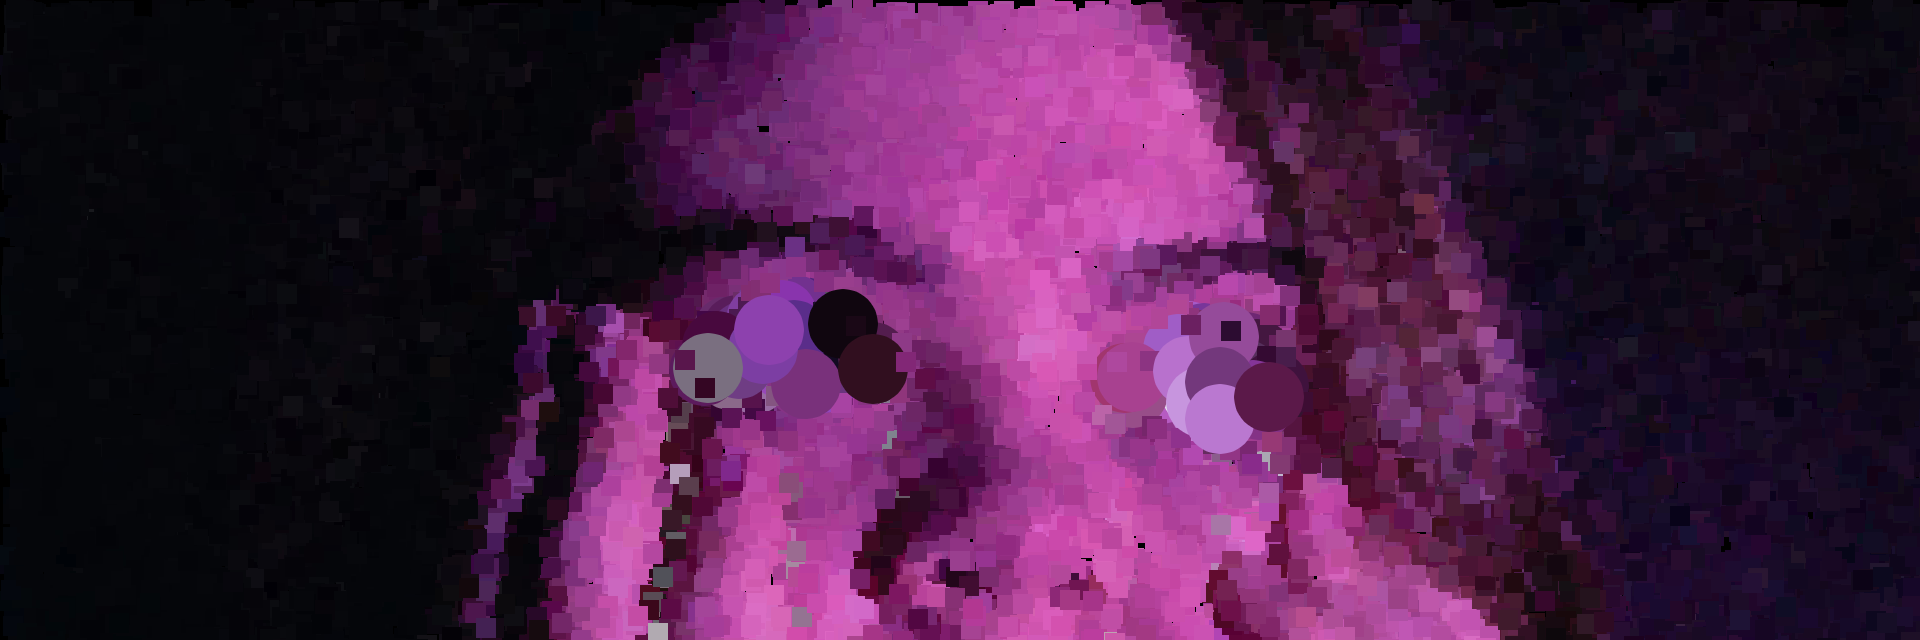
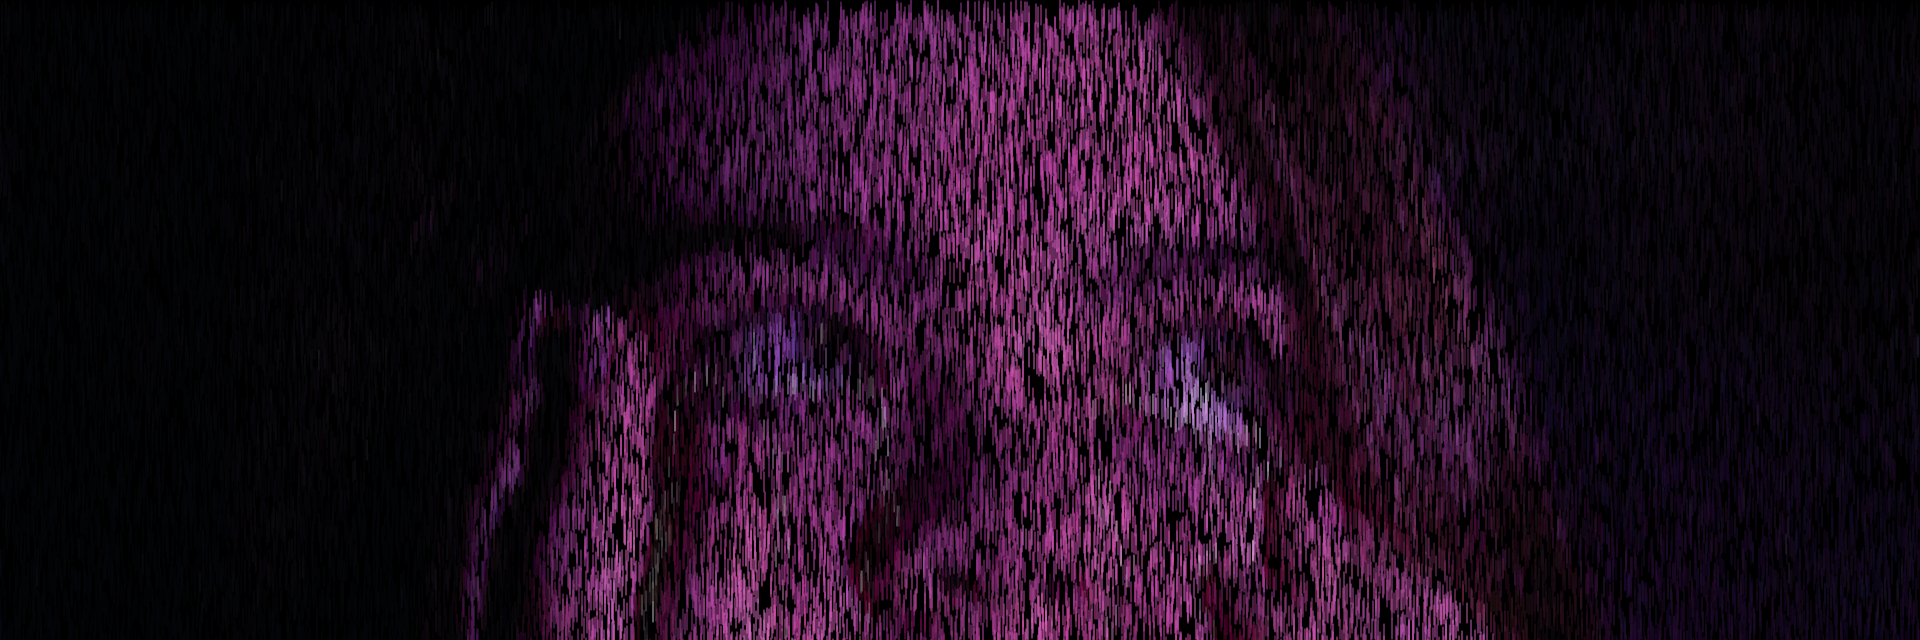
Rain effect

diff --git a/sketch.js b/sketch.js
@@ -17,30 +17,43 @@ function setup () {
   main_canvas.parent('canvasContainer');
 
   imageMode(CENTER);
-  noStroke();
+  // noStroke();
   background(0);
   sourceImg.loadPixels();
   maskImg.loadPixels();
 }
 
 function draw () {
-  for(let i=0;i<2000;i++) {
+
+  //2000 elements
+  for(let i=0;i<3000;i++) {
     let x = floor(random(sourceImg.width));
     let y = floor(random(sourceImg.height));
     let pix = sourceImg.get(x, y);
     let mask = maskImg.get(x, y);
     fill(pix);
-    if(mask[0] > 128) {
-      let pointSize = 70;
-      ellipse(x, y, pointSize, pointSize);
-    }
-    else {
-      let pointSize = 20;
-      rect(x, y, pointSize, pointSize);
-    }
+    stroke(pix);
+    console.log(mask);
+    let pointSize=20;
+    line(x,y, x, y+pointSize);
+
+
+
+
+
+    // if(mask[0] > 128) {
+    //   let pointSize = 70;
+    //   ellipse(x, y, pointSize, pointSize);
+    // }
+    // else {
+    //   let pointSize = 20;
+    //   rect(x, y, pointSize, pointSize);
+    // }
   }
+
+  //runs 10 different times
   renderCounter = renderCounter + 1;
-  if(renderCounter > 10) {
+  if(renderCounter >10) {
     console.log("Done!")
     noLoop();
     // uncomment this to save the result

diff --git a/README.md b/README.md
@@ -1,5 +1,5 @@
 ## Creative Coding 2: Custom Pixel
 
-I changed the size of the squares and ellipses as well as the background colour to black. The mask is ovee her eyes to show the contrast.
+This was a quick example of how i can change the pixel values and areas from the tutorial. I like this effect and think it would look cool for a themed photo with rain meaning. 
 
 The images above are photos of my friend from an assignment from last year in the studio algorithmically processed with a lightly modified version of the [p5.js Pointillism example](https://p5js.org/examples/image-pointillism.html). The masks for each photo highlight various objects.
